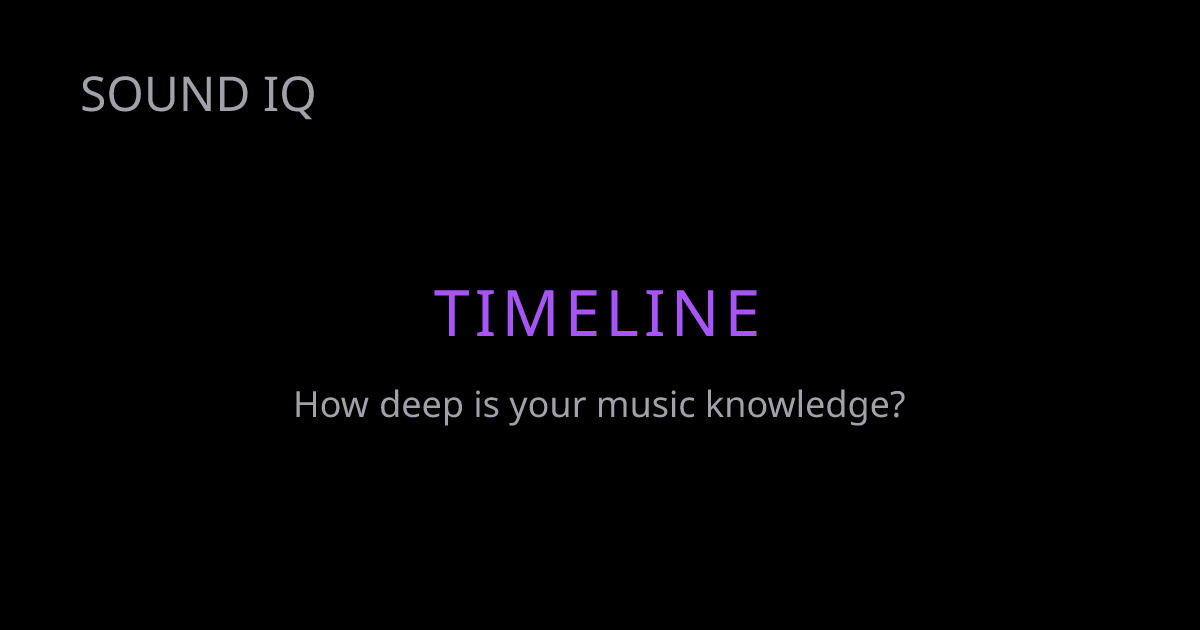
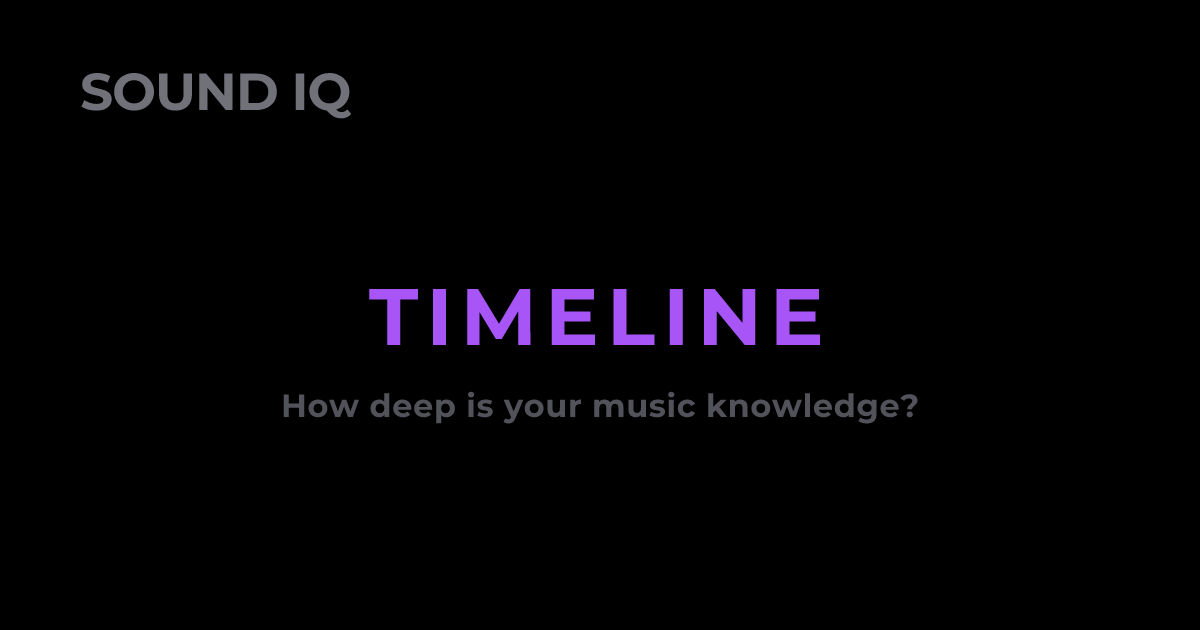
OG images: use Montserrat Black font to match app design
- Load Montserrat 900 (Black) from Google Fonts in Edge runtime
- Apply to all OG image text for consistent brand identity
- Regenerated static brand images with new font

Changed region(s): [[0.3083, 0.4524, 0.6783, 0.573], [0.2158, 0.6032, 0.7708, 0.6937], [0.0617, 0.0905, 0.3083, 0.181]]

diff --git a/app/api/og/route.tsx b/app/api/og/route.tsx
@@ -3,6 +3,13 @@ import { NextRequest } from 'next/server'
 
 export const runtime = 'edge'
 
+async function loadFont(): Promise<ArrayBuffer> {
+  const res = await fetch(
+    'https://fonts.gstatic.com/s/montserrat/v29/JTUHjIg1_i6t8kCHKm4532VJOt5-QNFgpCuM70w-Y3tcoqK5.ttf'
+  )
+  return res.arrayBuffer()
+}
+
 function getGrade(score: number): { label: string; color: string } {
   if (score >= 90) return { label: 'S', color: '#facc15' }
   if (score >= 80) return { label: 'A', color: '#4ade80' }
@@ -13,6 +20,9 @@ function getGrade(score: number): { label: string; color: string } {
 }
 
 export async function GET(req: NextRequest) {
+  const fontData = await loadFont()
+  const fonts = [{ name: 'Montserrat', data: fontData, weight: 900 as const, style: 'normal' as const }]
+
   const { searchParams } = req.nextUrl
   const brand = searchParams.get('brand')
   const mode = searchParams.get('mode') ?? 'versus'
@@ -24,17 +34,18 @@ export async function GET(req: NextRequest) {
   if (brand === '1') {
     return new ImageResponse(
       (
-        <div style={{ display: 'flex', flexDirection: 'column', width: '100%', height: '100%', backgroundColor: '#000', padding: '60px 80px' }}>
-          <div style={{ display: 'flex', fontSize: '48px', fontWeight: 900, color: '#a1a1aa' }}>SOUND IQ</div>
+        <div style={{ display: 'flex', flexDirection: 'column', width: '100%', height: '100%', backgroundColor: '#000', padding: '60px 80px', fontFamily: 'Montserrat' }}>
+          <div style={{ display: 'flex', fontSize: '52px', fontWeight: 900, color: '#71717a', letterSpacing: '-0.02em' }}>SOUND IQ</div>
           <div style={{ display: 'flex', flexDirection: 'column', alignItems: 'center', justifyContent: 'center', flex: 1 }}>
-            <div style={{ display: 'flex', fontSize: '64px', fontWeight: 900, color: accentColor, letterSpacing: '0.08em' }}>{modeLabel}</div>
-            <div style={{ display: 'flex', fontSize: '36px', fontWeight: 700, color: '#a1a1aa', marginTop: '24px' }}>How deep is your music knowledge?</div>
+            <div style={{ display: 'flex', fontSize: '80px', fontWeight: 900, color: accentColor, letterSpacing: '0.1em' }}>{modeLabel}</div>
+            <div style={{ display: 'flex', fontSize: '32px', fontWeight: 900, color: '#52525b', marginTop: '20px', letterSpacing: '0.02em' }}>How deep is your music knowledge?</div>
           </div>
         </div>
       ),
       {
         width: 1200,
         height: 630,
+        fonts,
         headers: { 'Cache-Control': 'public, max-age=31536000, immutable' },
       },
     )
@@ -47,13 +58,13 @@ export async function GET(req: NextRequest) {
 
   return new ImageResponse(
     (
-      <div style={{ display: 'flex', flexDirection: 'column', width: '100%', height: '100%', backgroundColor: '#000', padding: '60px 80px' }}>
-        <div style={{ display: 'flex', fontSize: '48px', fontWeight: 900, color: '#a1a1aa' }}>SOUND IQ</div>
+      <div style={{ display: 'flex', flexDirection: 'column', width: '100%', height: '100%', backgroundColor: '#000', padding: '60px 80px', fontFamily: 'Montserrat' }}>
+        <div style={{ display: 'flex', fontSize: '52px', fontWeight: 900, color: '#71717a', letterSpacing: '-0.02em' }}>SOUND IQ</div>
         <div style={{ display: 'flex', flexDirection: 'column', alignItems: 'center', justifyContent: 'center', flex: 1 }}>
-          <div style={{ display: 'flex', fontSize: '32px', fontWeight: 700, color: accentColor, letterSpacing: '0.05em' }}>{modeLabel} RESULTS</div>
+          <div style={{ display: 'flex', fontSize: '32px', fontWeight: 900, color: accentColor, letterSpacing: '0.08em' }}>{modeLabel} RESULTS</div>
           <div style={{ display: 'flex', alignItems: 'baseline', marginTop: '16px' }}>
             <div style={{ display: 'flex', fontSize: '180px', fontWeight: 900, color: '#fff', lineHeight: 1 }}>{numScore.toFixed(2)}</div>
-            <div style={{ display: 'flex', fontSize: '56px', fontWeight: 700, color: '#71717a', marginLeft: '8px' }}>/100</div>
+            <div style={{ display: 'flex', fontSize: '56px', fontWeight: 900, color: '#52525b', marginLeft: '8px' }}>/100</div>
           </div>
           <div style={{ display: 'flex', fontSize: '80px', fontWeight: 900, color: grade.color, marginTop: '24px' }}>{grade.label}</div>
         </div>
@@ -62,6 +73,7 @@ export async function GET(req: NextRequest) {
     {
       width: 1200,
       height: 630,
+      fonts,
       headers: { 'Cache-Control': 'public, max-age=3600, s-maxage=3600' },
     },
   )
